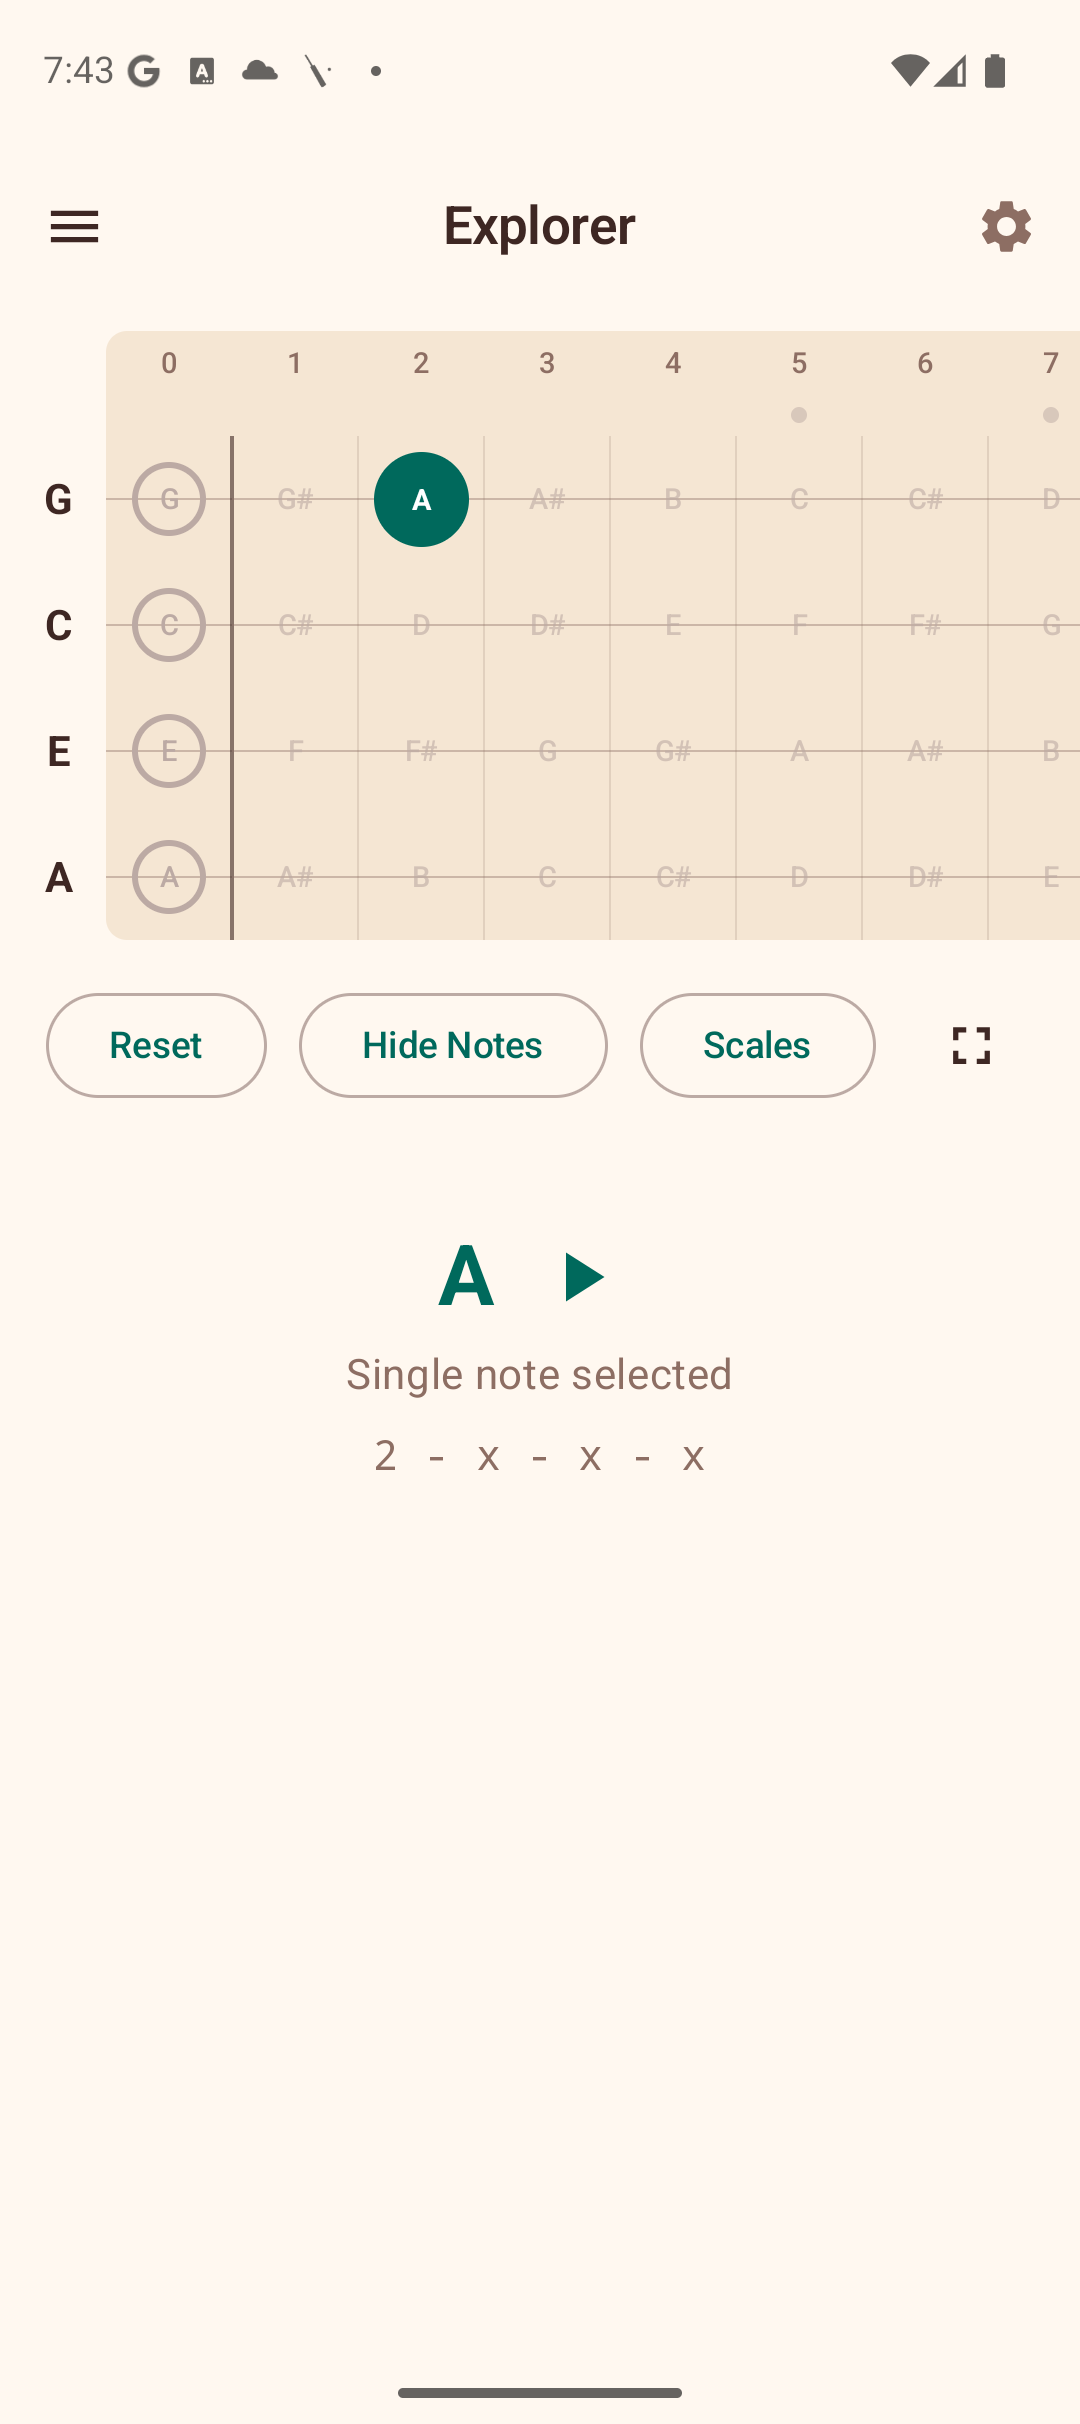
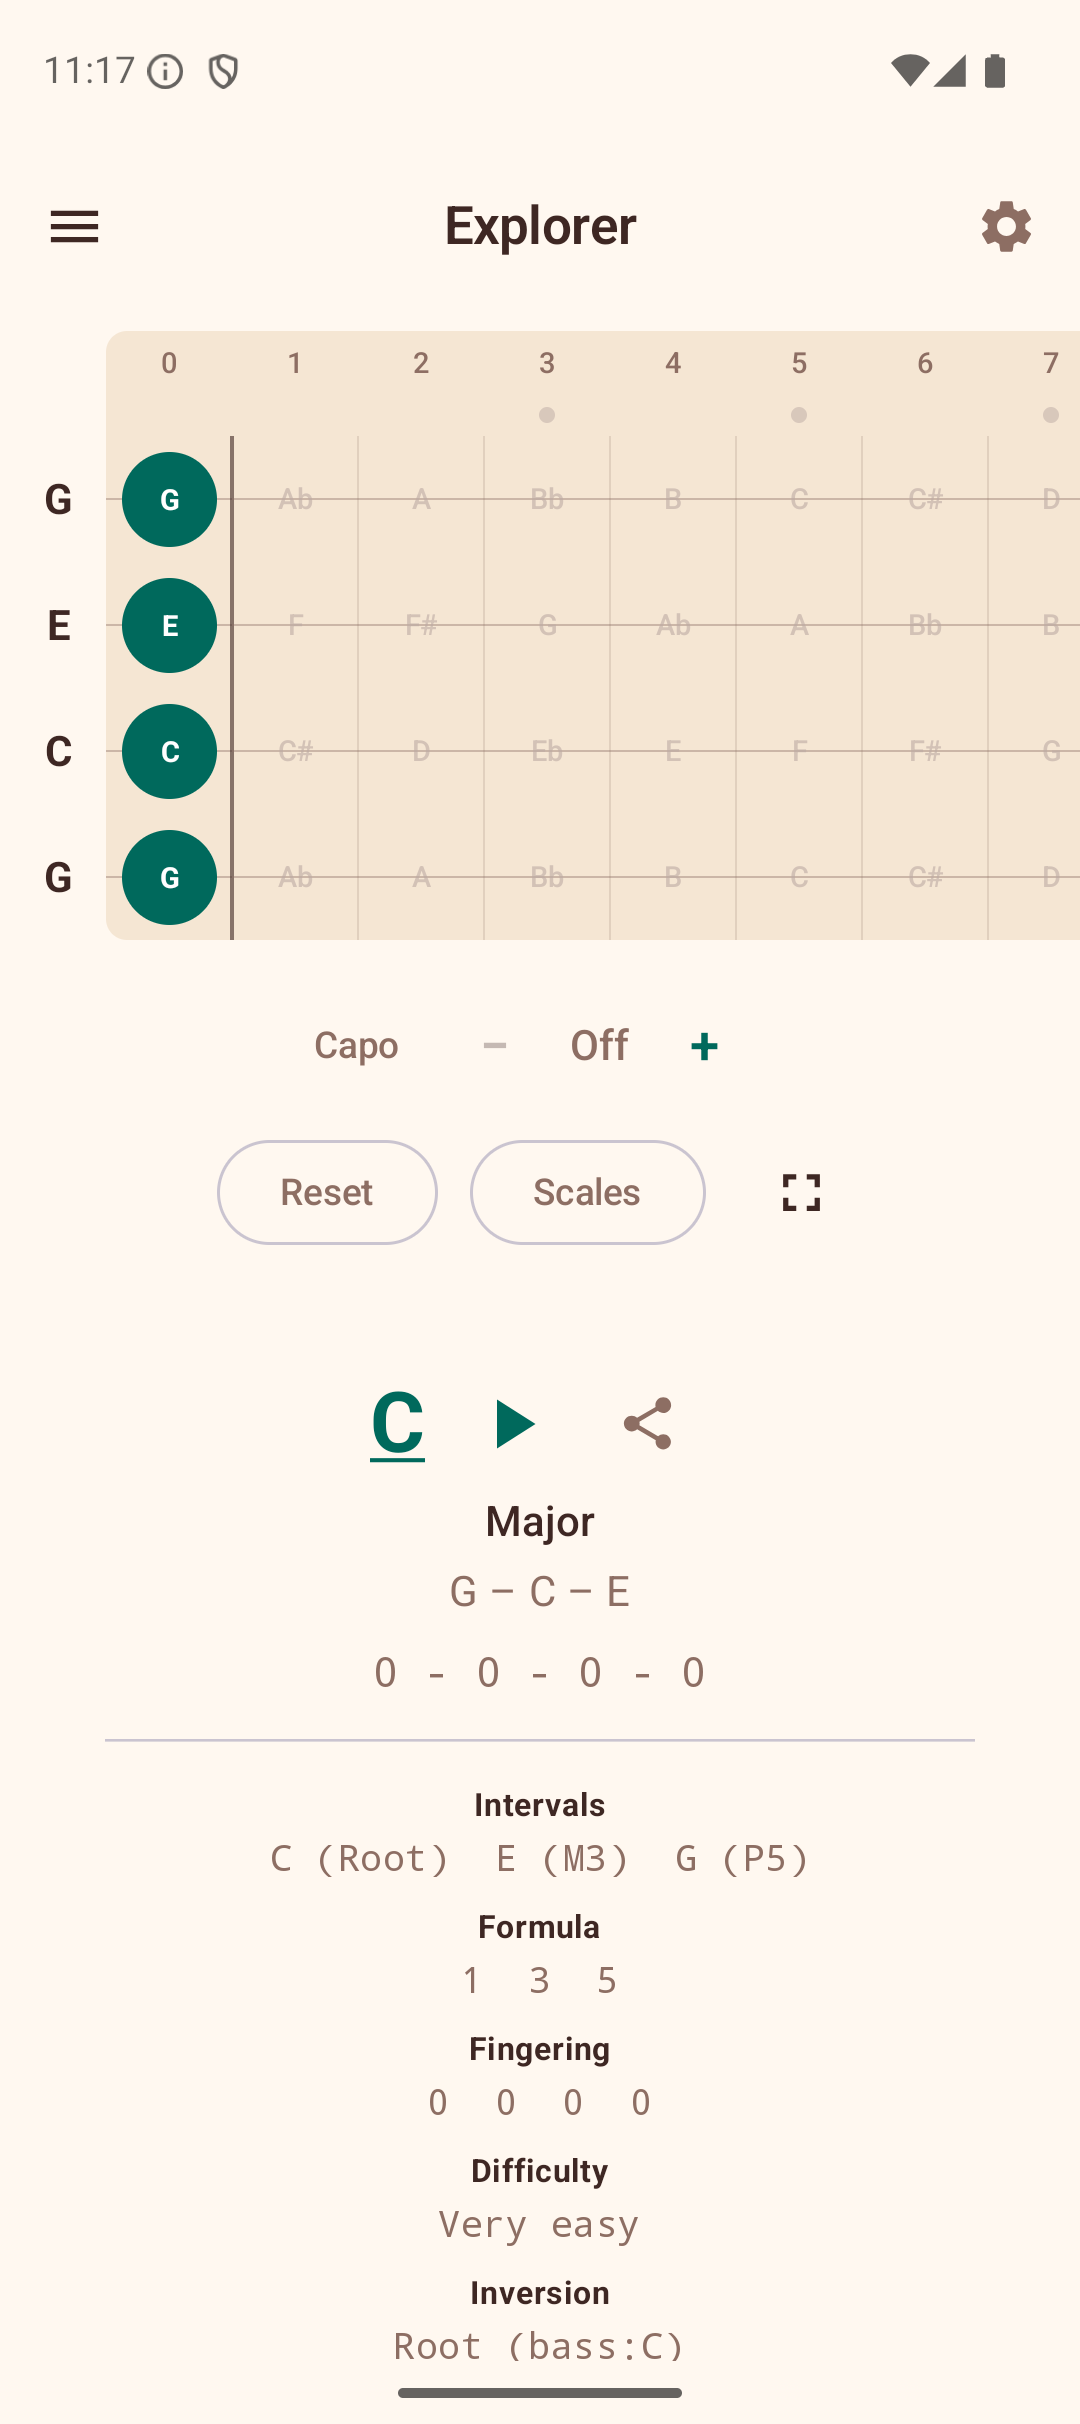
Add: Explorer tips card, beginner chord suggestions, and updated manual
Show a dismissible tips card on first Explorer visit explaining
tapping, scales, and capo. Add suggested beginner chords (C, Am, F,
G7) in the empty state below the fretboard. Update the manual and
screenshots to cover the onboarding wizard, tips card, and chord
suggestions.

diff --git a/app/src/main/java/com/baijum/ukufretboard/ui/FretboardScreen.kt b/app/src/main/java/com/baijum/ukufretboard/ui/FretboardScreen.kt
@@ -26,7 +26,10 @@ import androidx.compose.material.icons.filled.Search
 import androidx.compose.material.icons.filled.Star
 import androidx.compose.material.icons.filled.Equalizer
 import androidx.compose.material.icons.filled.Fullscreen
+import androidx.compose.material.icons.filled.MusicNote
 import androidx.compose.material.icons.filled.Settings
+import androidx.compose.material.icons.filled.TouchApp
+import androidx.compose.foundation.layout.size
 import androidx.compose.material3.CenterAlignedTopAppBar
 import androidx.compose.material3.DrawerValue
 import androidx.compose.material3.ExperimentalMaterial3Api
@@ -37,6 +40,9 @@ import androidx.compose.material3.ModalDrawerSheet
 import androidx.compose.material3.ModalNavigationDrawer
 import androidx.compose.material3.NavigationDrawerItem
 import androidx.compose.material3.NavigationDrawerItemDefaults
+import androidx.compose.material3.Button
+import androidx.compose.material3.CardDefaults
+import androidx.compose.material3.ElevatedCard
 import androidx.compose.material3.HorizontalDivider
 import androidx.compose.material3.OutlinedButton
 import androidx.compose.material3.Scaffold
@@ -409,8 +415,11 @@ fun FretboardScreen(
                 when (selectedSection) {
                     NAV_EXPLORER -> ExplorerTabContent(
                         viewModel = fretboardViewModel,
+                        settingsViewModel = settingsViewModel,
                         soundEnabled = appSettings.sound.enabled,
                         leftHanded = appSettings.fretboard.leftHanded,
+                        showTips = !appSettings.explorerTipsDismissed,
+                        onDismissTips = { settingsViewModel.dismissExplorerTips() },
                         onFullScreen = { showFullScreen = true },
                         onShareChord = { voicing, chordName, invLabel ->
                             shareChordInfo = ShareChordInfo(
@@ -783,8 +792,11 @@ private fun navigateToChord(
 @Composable
 private fun ExplorerTabContent(
     viewModel: FretboardViewModel,
+    settingsViewModel: SettingsViewModel,
     soundEnabled: Boolean,
     leftHanded: Boolean = false,
+    showTips: Boolean = false,
+    onDismissTips: () -> Unit = {},
     onFullScreen: () -> Unit = {},
     onShareChord: ((ChordVoicing, String, String?) -> Unit)? = null,
     onShowInLibrary: ((rootPitchClass: Int, formula: com.baijum.ukufretboard.data.ChordFormula) -> Unit)? = null,
@@ -797,6 +809,10 @@ private fun ExplorerTabContent(
             .fillMaxSize()
             .verticalScroll(rememberScrollState()),
     ) {
+        if (showTips) {
+            ExplorerTipsCard(onDismiss = onDismissTips)
+        }
+
         // Scale selector (collapsible)
         ScaleSelector(
             state = uiState.scaleOverlay,
@@ -936,7 +952,85 @@ private fun ExplorerTabContent(
             onAlternateChordTapped = if (onShowInLibrary != null) {
                 { alt -> onShowInLibrary(alt.rootPitchClass, alt.formula) }
             } else null,
+            onSuggestedChordTapped = { rootPitchClass, symbol ->
+                val formula = com.baijum.ukufretboard.data.ChordFormulas.ALL
+                    .firstOrNull { it.symbol == symbol }
+                if (formula != null) {
+                    val voicings = com.baijum.ukufretboard.data.VoicingGenerator.generate(
+                        rootPitchClass = rootPitchClass,
+                        formula = formula,
+                        tuning = currentTuning,
+                    )
+                    voicings.firstOrNull()?.let { viewModel.applyVoicing(it) }
+                }
+            },
             modifier = Modifier.fillMaxWidth(),
+        )
+    }
+}
+
+/**
+ * Dismissible tips card shown on the Explorer screen for first-time users.
+ * Explains tapping, scales, and capo features.
+ */
+@Composable
+private fun ExplorerTipsCard(onDismiss: () -> Unit) {
+    ElevatedCard(
+        modifier = Modifier
+            .fillMaxWidth()
+            .padding(horizontal = 16.dp, vertical = 8.dp),
+        elevation = CardDefaults.elevatedCardElevation(defaultElevation = 2.dp),
+    ) {
+        Column(modifier = Modifier.padding(16.dp)) {
+            Text(
+                text = stringResource(R.string.explorer_tips_title),
+                style = MaterialTheme.typography.titleMedium,
+                modifier = Modifier.semantics { heading() },
+            )
+            Spacer(modifier = Modifier.height(12.dp))
+            TipRow(
+                icon = Icons.Filled.TouchApp,
+                text = stringResource(R.string.explorer_tips_tap),
+            )
+            TipRow(
+                icon = Icons.Filled.MusicNote,
+                text = stringResource(R.string.explorer_tips_scales),
+            )
+            TipRow(
+                icon = Icons.Filled.Equalizer,
+                text = stringResource(R.string.explorer_tips_capo),
+            )
+            Spacer(modifier = Modifier.height(12.dp))
+            Row(
+                modifier = Modifier.fillMaxWidth(),
+                horizontalArrangement = Arrangement.Center,
+            ) {
+                Button(onClick = onDismiss) {
+                    Text(stringResource(R.string.explorer_tips_dismiss))
+                }
+            }
+        }
+    }
+}
+
+@Composable
+private fun TipRow(icon: ImageVector, text: String) {
+    Row(
+        modifier = Modifier
+            .fillMaxWidth()
+            .padding(vertical = 6.dp),
+        verticalAlignment = Alignment.CenterVertically,
+    ) {
+        Icon(
+            imageVector = icon,
+            contentDescription = null,
+            tint = MaterialTheme.colorScheme.primary,
+            modifier = Modifier.size(24.dp),
+        )
+        Spacer(modifier = Modifier.width(12.dp))
+        Text(
+            text = text,
+            style = MaterialTheme.typography.bodyMedium,
         )
     }
 }

diff --git a/app/src/main/java/com/baijum/ukufretboard/ui/ChordResultView.kt b/app/src/main/java/com/baijum/ukufretboard/ui/ChordResultView.kt
@@ -1,7 +1,10 @@
 package com.baijum.ukufretboard.ui
 
 import androidx.compose.foundation.clickable
+import androidx.compose.foundation.layout.Arrangement
 import androidx.compose.foundation.layout.Column
+import androidx.compose.foundation.layout.ExperimentalLayoutApi
+import androidx.compose.foundation.layout.FlowRow
 import androidx.compose.foundation.layout.Row
 import androidx.compose.foundation.layout.Spacer
 import androidx.compose.foundation.layout.fillMaxWidth
@@ -12,6 +15,7 @@ import androidx.compose.foundation.layout.width
 import androidx.compose.material.icons.Icons
 import androidx.compose.material.icons.filled.PlayArrow
 import androidx.compose.material.icons.filled.Share
+import androidx.compose.material3.FilterChip
 import androidx.compose.material3.HorizontalDivider
 import androidx.compose.material3.Icon
 import androidx.compose.material3.IconButton
@@ -68,6 +72,7 @@ fun ChordResultView(
     onShareChord: (() -> Unit)? = null,
     onShowInLibrary: (() -> Unit)? = null,
     onAlternateChordTapped: ((AlternateChord) -> Unit)? = null,
+    onSuggestedChordTapped: ((rootPitchClass: Int, formulaSymbol: String) -> Unit)? = null,
     modifier: Modifier = Modifier,
 ) {
     val hasNotes = detectionResult !is ChordDetector.DetectionResult.NoSelection
@@ -85,6 +90,9 @@ fun ChordResultView(
                     style = MaterialTheme.typography.bodyLarge,
                     color = MaterialTheme.colorScheme.onSurfaceVariant,
                 )
+                if (onSuggestedChordTapped != null) {
+                    SuggestedChordsSection(onChordTapped = onSuggestedChordTapped)
+                }
             }
 
             is ChordDetector.DetectionResult.SingleNote -> {
@@ -394,6 +402,49 @@ private fun ChordHeadlineWithPlay(
                     modifier = Modifier.size(24.dp),
                 )
             }
+        }
+    }
+}
+
+private data class SuggestedChord(
+    val name: String,
+    val rootPitchClass: Int,
+    val formulaSymbol: String,
+)
+
+private val BEGINNER_CHORDS = listOf(
+    SuggestedChord("C", 0, ""),
+    SuggestedChord("Am", 9, "m"),
+    SuggestedChord("F", 5, ""),
+    SuggestedChord("G7", 7, "7"),
+)
+
+@OptIn(ExperimentalLayoutApi::class)
+@Composable
+private fun SuggestedChordsSection(
+    onChordTapped: (rootPitchClass: Int, formulaSymbol: String) -> Unit,
+) {
+    Spacer(modifier = Modifier.height(16.dp))
+    HorizontalDivider(
+        modifier = Modifier.padding(horizontal = 16.dp),
+        color = MaterialTheme.colorScheme.outlineVariant,
+    )
+    Spacer(modifier = Modifier.height(12.dp))
+    Text(
+        text = stringResource(R.string.explorer_try_chords),
+        style = MaterialTheme.typography.labelLarge,
+        color = MaterialTheme.colorScheme.onSurfaceVariant,
+    )
+    Spacer(modifier = Modifier.height(8.dp))
+    FlowRow(
+        horizontalArrangement = Arrangement.spacedBy(8.dp),
+    ) {
+        BEGINNER_CHORDS.forEach { chord ->
+            FilterChip(
+                selected = false,
+                onClick = { onChordTapped(chord.rootPitchClass, chord.formulaSymbol) },
+                label = { Text(chord.name) },
+            )
         }
     }
 }

diff --git a/app/src/main/java/com/baijum/ukufretboard/viewmodel/SettingsViewModel.kt b/app/src/main/java/com/baijum/ukufretboard/viewmodel/SettingsViewModel.kt
@@ -111,6 +111,15 @@ class SettingsViewModel(application: Application) : AndroidViewModel(application
     }
 
     /**
+     * Dismisses the Explorer tips card so it is not shown again.
+     */
+    fun dismissExplorerTips() {
+        _settings.update { current ->
+            current.copy(explorerTipsDismissed = true).also { saveSettings(it) }
+        }
+    }
+
+    /**
      * Replaces all settings with the given [AppSettings].
      * Used for sync/restore operations.
      */
@@ -160,6 +169,7 @@ class SettingsViewModel(application: Application) : AndroidViewModel(application
             .putBoolean(KEY_TUNER_AUTO_START, s.tuner.autoStart)
             // Onboarding
             .putBoolean(KEY_ONBOARDING_COMPLETED, s.onboardingCompleted)
+            .putBoolean(KEY_EXPLORER_TIPS_DISMISSED, s.explorerTipsDismissed)
             .apply()
     }
 
@@ -212,6 +222,7 @@ class SettingsViewModel(application: Application) : AndroidViewModel(application
                 autoStart = prefs.getBoolean(KEY_TUNER_AUTO_START, false),
             ),
             onboardingCompleted = prefs.getBoolean(KEY_ONBOARDING_COMPLETED, true),
+            explorerTipsDismissed = prefs.getBoolean(KEY_EXPLORER_TIPS_DISMISSED, true),
         )
     }
 
@@ -242,5 +253,6 @@ class SettingsViewModel(application: Application) : AndroidViewModel(application
         private const val KEY_TUNER_AUTO_ADVANCE = "tuner_auto_advance"
         private const val KEY_TUNER_AUTO_START = "tuner_auto_start"
         private const val KEY_ONBOARDING_COMPLETED = "onboarding_completed"
+        private const val KEY_EXPLORER_TIPS_DISMISSED = "explorer_tips_dismissed"
     }
 }

diff --git a/app/src/main/java/com/baijum/ukufretboard/data/AppSettings.kt b/app/src/main/java/com/baijum/ukufretboard/data/AppSettings.kt
@@ -202,4 +202,5 @@ data class AppSettings(
     val scalePractice: ScalePracticeSettings = ScalePracticeSettings(),
     val tuner: TunerSettings = TunerSettings(),
     val onboardingCompleted: Boolean = false,
+    val explorerTipsDismissed: Boolean = false,
 )

diff --git a/docs/manual/01-getting-started.md b/docs/manual/01-getting-started.md
@@ -6,9 +6,21 @@ Ukulele Companion is available as an Android APK. Install it on any device runni
 
 ## First Launch
 
-When you open the app for the first time, you land on the **Explorer** tab. This is the interactive fretboard where you can tap fret positions and the app will detect chords for you.
+When you open the app for the first time, a short **onboarding wizard** walks you through the key features. The wizard has six pages that you can swipe through or navigate with the Next / Back buttons:
 
-![Explorer screen on first launch](screenshots/explorer-fretboard.png)
+1. **Welcome** — the app name and what it does.
+2. **Features** — a quick overview of the tuner, chord library, fretboard explorer, songbook, and learning tools.
+3. **Accessibility** — TalkBack support, spoken tuner feedback, and the high-contrast theme.
+4. **Privacy** — fully offline, no ads, no tracking, no account required.
+5. **Navigation** — how to open the navigation drawer and what each section contains.
+6. **Quick Setup** — choose your tuning (High-G, Low-G, Baritone, etc.), left-handed mode, and color theme. These choices take effect immediately and can be changed later in Settings.
+
+![Onboarding welcome page](screenshots/onboarding-welcome.png)
+![Onboarding setup page](screenshots/onboarding-setup.png)
+
+Tap **Get Started** on the last page to enter the app. You can also tap **Skip** on any earlier page to go straight to the Explorer.
+
+The wizard only appears once. After that, the app opens directly to the Explorer.
 
 ## Navigating the App
 

diff --git a/docs/manual/02-explorer.md b/docs/manual/02-explorer.md
@@ -4,6 +4,24 @@ The Explorer is the main screen of Ukulele Companion. It shows an interactive fr
 
 ![Explorer fretboard](screenshots/explorer-fretboard.png)
 
+## Tips for First-Time Users
+
+The first time you visit the Explorer, a **tips card** appears at the top of the screen with a brief explanation of the three key features:
+
+- **Tap any fret** to select a note — the app detects which chord you are building.
+- **Tap Scales** to overlay scale patterns on the fretboard.
+- **Use the capo slider** to simulate a capo and transpose your chords.
+
+Tap **Got it** to dismiss the card permanently.
+
+![Explorer with tips card](screenshots/explorer-fretboard.png)
+
+## Suggested Beginner Chords
+
+When no frets are selected, the area below the fretboard shows a **"Try these beginner chords"** section with four common ukulele chords: **C**, **Am**, **F**, and **G7**. Tap any chip to load the chord onto the fretboard instantly. This is a quick way to hear what the chords sound like and see the fingering. Tap **Reset** to clear the fretboard and see the suggestions again.
+
+![Beginner chord suggestions](screenshots/explorer-beginner-chords.png)
+
 ## Tapping Notes
 
 Tap any fret cell on the fretboard to place or remove a finger. The fretboard displays frets 0 through 12 across four strings (G, C, E, A in standard tuning).
